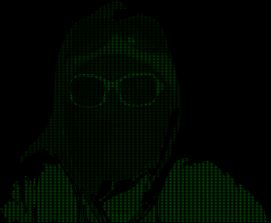
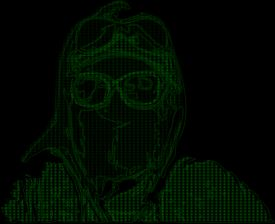
Dark tweaks.
Monotone-Parent: a1bb0e0ac7c7e750b466edaad412db23184ead44
Monotone-Revision: 354d421d8e1f234007967cec4461aedb532ae89e

Monotone-Author: z3d@mail.i2p
Monotone-Date: 2010-12-05T04:31:33
Monotone-Branch: i2p.i2p

diff --git a/installer/resources/themes/console/dark/default.css b/installer/resources/themes/console/dark/default.css
@@ -244,11 +244,11 @@ hr {
 }
 
 #globalOperationsPanel {
-     background-color: #030;
+     background-color: #000;
      border: 1px solid #494;
      -moz-box-shadow: inset 0px 0px 0px 1px #932;
      padding: 5px 20px 11px 10px !important;
-     background: #000; /*url(images/camotile2.png);*/
+     background: #000 url(images/scarface.jpg) center center no-repeat !important;
 }
 
 #globalOperationsPanel .control {

diff --git a/installer/resources/themes/console/dark/console.css b/installer/resources/themes/console/dark/console.css
@@ -309,7 +309,7 @@ div.main {
      -moz-border-radius: 0 0 4px 4px;
      -khtml-border-radius: 0 0 4px 4px;
      border-radius: 0 0 4px 4px;
-     background: #000 url(images/scarface.png) right bottom no-repeat !important;
+     background: #000 url(images/scarface.jpg) right bottom no-repeat !important;
      min-width: 620px;
      -moz-box-shadow: 0 1px 5px #000;
 }
